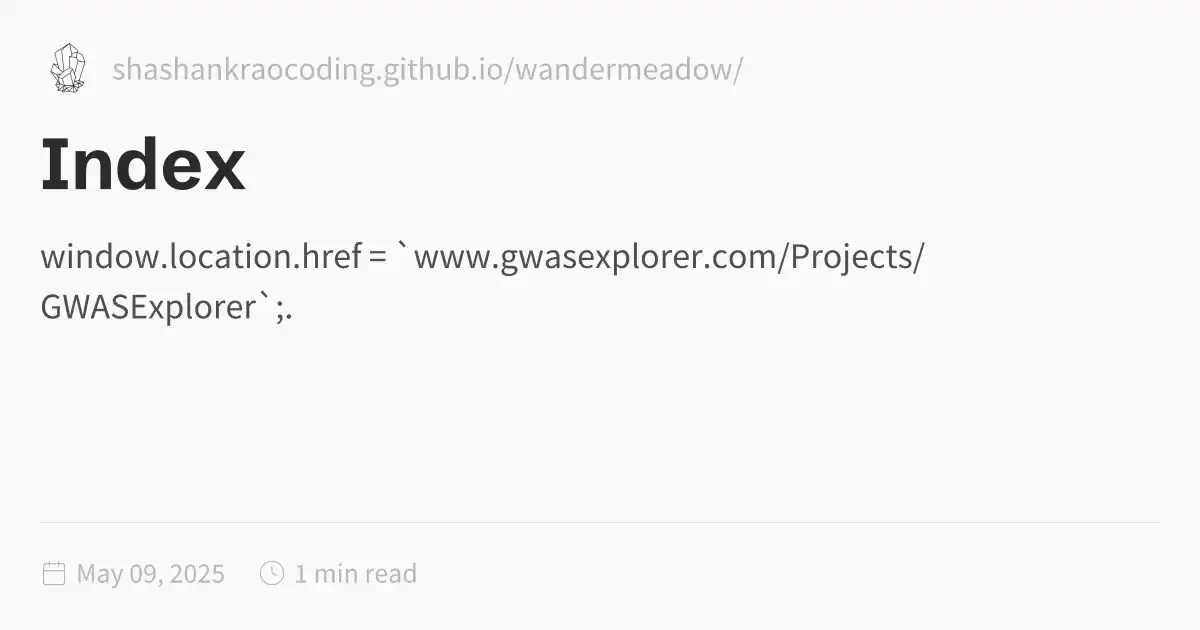
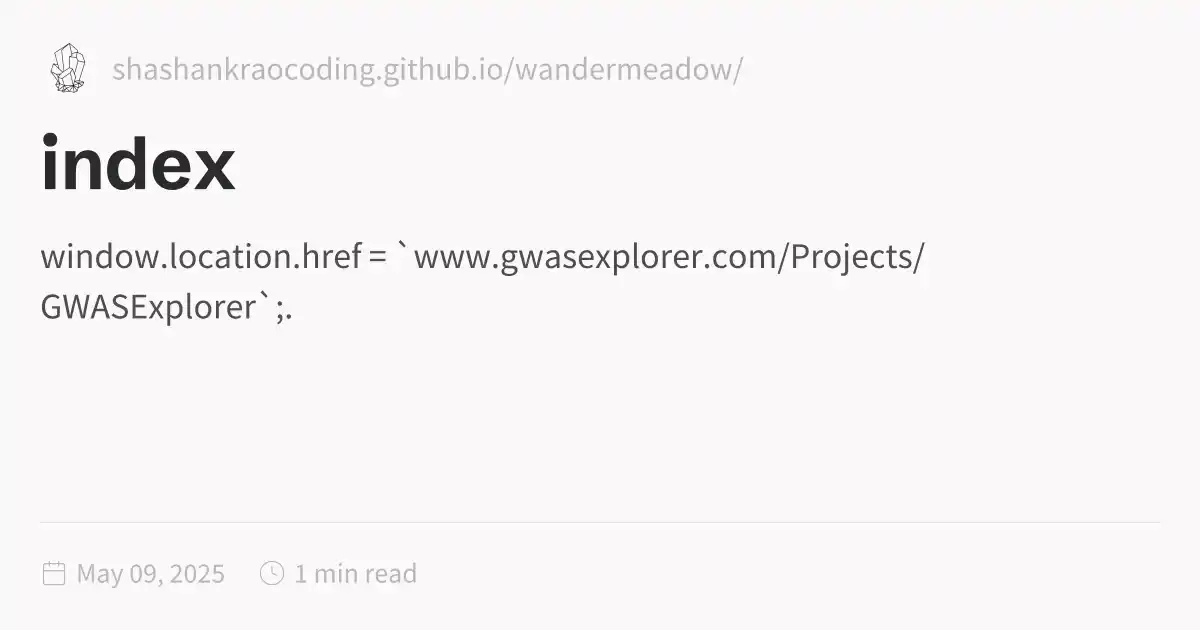
Update public folder - 2025-05-09\_1718

Changed region(s): [[0.0308, 0.2111, 0.2158, 0.3016]]

diff --git a/index.html b/index.html
@@ -1,5 +1,5 @@
 <!DOCTYPE html>
-<html lang="en"><head><title>Index</title><meta charset="utf-8"/><link rel="preconnect" href="https://fonts.googleapis.com"/><link rel="preconnect" href="https://fonts.gstatic.com"/><link rel="stylesheet" href="https://fonts.googleapis.com/css2?family=Schibsted Grotesk:wght@400;700&amp;family=Source Sans Pro:ital,wght@0,400;0,600;1,400;1,600&amp;family=IBM Plex Mono:wght@400;600&amp;display=swap"/><link rel="preconnect" href="https://cdnjs.cloudflare.com" crossorigin="anonymous"/><meta name="viewport" content="width=device-width, initial-scale=1.0"/><meta name="og:site_name" content="Wander Meadow"/><meta property="og:title" content="Index"/><meta property="og:type" content="website"/><meta name="twitter:card" content="summary_large_image"/><meta name="twitter:title" content="Index"/><meta name="twitter:description" content="window.location.href = `www.gwasexplorer.com/Projects/GWASExplorer`;."/><meta property="og:description" content="window.location.href = `www.gwasexplorer.com/Projects/GWASExplorer`;."/><meta property="og:image:alt" content="window.location.href = `www.gwasexplorer.com/Projects/GWASExplorer`;."/><meta property="twitter:domain" content="shashankraocoding.github.io/wandermeadow/"/><meta property="og:url" content="https://shashankraocoding.github.io/wandermeadow/Index"/><meta property="twitter:url" content="https://shashankraocoding.github.io/wandermeadow/Index"/><link rel="icon" href="./static/icon.png"/><meta name="description" content="window.location.href = `www.gwasexplorer.com/Projects/GWASExplorer`;."/><meta name="generator" content="Quartz"/><link href="./index.css" rel="stylesheet" type="text/css" spa-preserve/><style>.expand-button {
+<html lang="en"><head><title>index</title><meta charset="utf-8"/><link rel="preconnect" href="https://fonts.googleapis.com"/><link rel="preconnect" href="https://fonts.gstatic.com"/><link rel="stylesheet" href="https://fonts.googleapis.com/css2?family=Schibsted Grotesk:wght@400;700&amp;family=Source Sans Pro:ital,wght@0,400;0,600;1,400;1,600&amp;family=IBM Plex Mono:wght@400;600&amp;display=swap"/><link rel="preconnect" href="https://cdnjs.cloudflare.com" crossorigin="anonymous"/><meta name="viewport" content="width=device-width, initial-scale=1.0"/><meta name="og:site_name" content="Wander Meadow"/><meta property="og:title" content="index"/><meta property="og:type" content="website"/><meta name="twitter:card" content="summary_large_image"/><meta name="twitter:title" content="index"/><meta name="twitter:description" content="window.location.href = `www.gwasexplorer.com/Projects/GWASExplorer`;."/><meta property="og:description" content="window.location.href = `www.gwasexplorer.com/Projects/GWASExplorer`;."/><meta property="og:image:alt" content="window.location.href = `www.gwasexplorer.com/Projects/GWASExplorer`;."/><meta property="twitter:domain" content="shashankraocoding.github.io/wandermeadow/"/><meta property="og:url" content="https://shashankraocoding.github.io/wandermeadow/index"/><meta property="twitter:url" content="https://shashankraocoding.github.io/wandermeadow/index"/><link rel="icon" href="./static/icon.png"/><meta name="description" content="window.location.href = `www.gwasexplorer.com/Projects/GWASExplorer`;."/><meta name="generator" content="Quartz"/><link href="./index.css" rel="stylesheet" type="text/css" spa-preserve/><style>.expand-button {
   position: absolute;
   display: flex;
   float: right;
@@ -116,7 +116,7 @@ pre:hover > .expand-button {
   padding: 0 12px;
   font-size: 14px;
 }
[2 lines of base64/hex data omitted]
                 s-3.542,0.634-4.898,1.688l-7.669-7.669C16.785,10.424,17,9.74,17,9c0-2.206-1.794-4-4-4S9,6.794,9,9s1.794,4,4,4
                 c0.74,0,1.424-0.215,2.019-0.567l7.669,7.669C21.634,21.458,21,23.154,21,25s0.634,3.542,1.688,4.897L10.024,42.562
                 C8.958,41.595,7.549,41,6,41c-3.309,0-6,2.691-6,6s2.691,6,6,6s6-2.691,6-6c0-1.035-0.263-2.009-0.726-2.86l12.829-12.829
